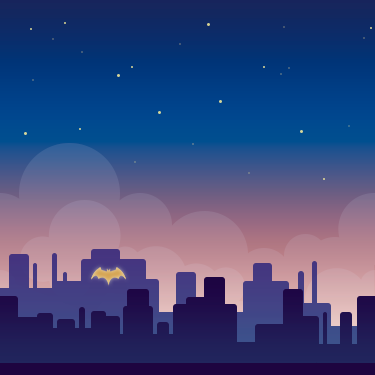
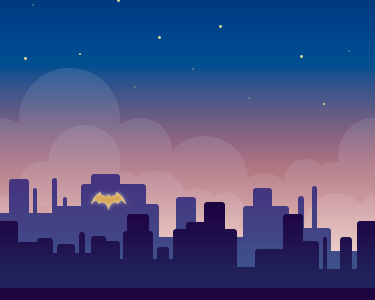
designing

diff --git a/tasks/batman/batman-flight-view.js b/tasks/batman/batman-flight-view.js
@@ -1,4 +1,4 @@
-import {HILL_HEIGHT} from './consts'
+import {BATMAN_SKIP_H, BATMAN_SKIP_W, HILL_HEIGHT} from './consts'
 
 export class BatmanFlightView {
 
@@ -14,19 +14,27 @@ export class BatmanFlightView {
 
         this.fly2 = this.kioapi.getResource('fly2');
         this.fly2w = this.fly2.width;
-        this.fly2h = this.fly2.height / 3;
+        this.fly2h = this.fly2.height / 4;
+
+        this.ctx = this.canvas.getContext('2d');
+        this.sky_pattern = this.ctx.createPattern(this.kioapi.getResource('bg'), 'repeat-x');
+        let grass_img = this.kioapi.getResource('ground');
+        this.ground_pattern = this.ctx.createPattern(grass_img, 'repeat');
+        this.ground_height = grass_img.height;
+        this.roof_img = this.kioapi.getResource('roof');
 
         $(window).on('resize', () => this.resize());
     }
 
-    redraw(path, time) {
+    redraw(path, time, pose_standing /*boolean*/) {
         this.last_redraw_path = path;
         this.last_redraw_time = time;
+        this.last_redraw_pose_standing = pose_standing;
 
         let pos = path.indexByTime(time);
         this.position_camera(path.x(pos), path.y(pos));
 
-        let ctx = this.canvas.getContext('2d');
+        let ctx = this.ctx;
 
         ctx.clearRect(0, 0, this.canvas.width, this.canvas.height);
 
@@ -35,30 +43,48 @@ export class BatmanFlightView {
         this.drawPath(ctx, path);
         this.drawActions(ctx, path);
 
+        let pose = pose_standing ? 4 : path.pose(pos);
         this.drawBatman(ctx, this.local2canvas({
             x: path.x(pos),
             y: path.y(pos)
-        }), path.theta(pos), path.pose(pos));
+        }), path.theta(pos), pose);
     }
 
     drawSky(ctx) {
-        ctx.fillStyle = skyGradient(ctx, 0, 0, 0, this.canvas.height);
-        ctx.fillRect(0, 0, this.canvas.width, this.canvas.height);
+        ctx.fillStyle = this.sky_pattern;
+        let dx = Math.round(this.x_left / this.pixel_size);
+        ctx.save();
+        ctx.translate(-dx, 0);
+        ctx.fillRect(dx, 0, this.canvas.width, this.canvas.height);
+        ctx.restore();
     }
 
     drawGround(ctx) {
-        ctx.fillStyle = ctx.createPattern(this.kioapi.getResource('grass'), 'repeat');
-        let {x: zero_x, y: zero_y} = this.local2canvas({x: 0, y: 0});
+        ctx.fillStyle = this.ground_pattern;
+        let {x: zero_x, y: zero_y} = this.local2canvas({x: 0, y: 0}, true);
         let hill_height = this.local_length2canvas(HILL_HEIGHT);
         let a_lot = this.local_length2canvas(1000);
-        ctx.fillRect(zero_x - a_lot, zero_y, a_lot, a_lot);
-        ctx.fillRect(zero_x, zero_y + hill_height, a_lot, a_lot);
+
+        ctx.drawImage(this.roof_img, zero_x - BATMAN_SKIP_H, zero_y - BATMAN_SKIP_W);
+
+        let dx = Math.round(this.x_left / this.pixel_size);
+        ctx.save();
+        ctx.translate(-dx, 0);
+        ctx.fillRect(dx + zero_x - a_lot, zero_y + hill_height, 2 * a_lot, a_lot);
+
+        ctx.restore();
     }
 
     drawBatman(ctx, {x, y}, theta, pose) {
         ctx.save();
-        ctx.translate(x, y);
-        ctx.rotate(-theta);
+
+        if (pose == 4) {
+            ctx.translate(Math.round(x), Math.round(y) - this.fly2w / 2 + 2);
+            ctx.rotate(-Math.PI / 2);
+        } else {
+            ctx.translate(x, y);
+            ctx.rotate(-theta);
+        }
 
         ctx.drawImage(
             this.fly2,
@@ -113,10 +139,9 @@ export class BatmanFlightView {
     }
 
     resize() {
-        let w = $(this.canvas.parentNode).width();
-        this.canvas.width = w;
+        this.canvas.width = $(this.canvas.parentNode).width();
         if (this.last_redraw_path)
-            this.redraw(this.last_redraw_path, this.last_redraw_time);
+            this.redraw(this.last_redraw_path, this.last_redraw_time, this.last_redraw_pose_standing);
     }
 
     canvas2local({x, y}) {
@@ -128,16 +153,18 @@ export class BatmanFlightView {
 
     position_camera(local_batman_x, local_batman_y) {
         let w = this.canvas.width * this.pixel_size;
-        let h = this.canvas.height * this.pixel_size;
+        let h = (this.canvas.height - this.ground_height) * this.pixel_size;
         let x_left = -w / 2 + local_batman_x;
-        let y_top = h / 2/* + local_batman_y*/;
+        let y_top = h / 2 /*- 32 * this.pixel_size*/; //grass size/* + local_batman_y*/
 
-        let min_g = 10 * this.pixel_size;
-        if (x_left < -min_g)
-            x_left = -min_g;
+        let min_gh = BATMAN_SKIP_H * this.pixel_size; //this.roof_img.width * this.pixel_size;
+        if (x_left < -min_gh)
+            x_left = -min_gh;
 
-        if ((y_top + HILL_HEIGHT + min_g) / this.pixel_size < this.canvas.height)
-            y_top = this.canvas.height * this.pixel_size - HILL_HEIGHT - min_g;
+        let min_gw = this.ground_height * this.pixel_size;
+
+        //if (y_top + HILL_HEIGHT + min_gw < this.canvas.height * this.pixel_size) //if we allow to go up
+        y_top = this.canvas.height * this.pixel_size - HILL_HEIGHT - min_gw;
 
         this.x_left = x_left;
         this.y_top = y_top;

diff --git a/tasks/batman/batman.js b/tasks/batman/batman.js
@@ -5,7 +5,7 @@ import {Path} from './path1'
 import {BatmanAction} from './batman_action'
 import {InitialValuesInput, IntermediateValuesInput} from './values_input'
 import {ListOfElements} from './list_of_elements'
-import {get_pose} from './consts'
+import {get_pose, PIXEL_SIZE} from './consts'
 
 export class Batman {
 
@@ -29,7 +29,8 @@ export class Batman {
         return [
             {id: "fly1", src: "batman-resources/fly1.png"},
             {id: "fly2", src: "batman-resources/fly2.png"},
-            {id: "grass", src: "batman-resources/grass.jpg"},
+            {id: "ground", src: "batman-resources/ground.png"},
+            {id: "roof", src: "batman-resources/roof.png"},
             {id: "bg", src: "batman-resources/bg.png"}
         ];
     }
@@ -104,23 +105,37 @@ export class Batman {
 
     initInterface(domNode) {
         this.animation_paused = true;
+        this.time = 0;
 
         this.go = () => {
+            this.last_raf_id = null;
+
             let newTime = new Date().getTime();
-            this.time += (newTime - this.prevTime) / 1000;
+
+            if (!this.animation_just_started) {
+                let delta_time = newTime - this.prevTime;
+
+                if (delta_time < 0.05) { //20fps
+                    this.last_raf_id = requestAnimationFrame(this.go);
+                    return;
+                }
+
+                this.time += delta_time / 1000;
+
+                this.time = Math.min(this.current_path.efficient_max_time, this.time);
+                if (this.time == this.current_path.efficient_max_time)
+                    this.setAnimationPause(true);
+            }
+            this.animation_just_started = false;
             this.prevTime = newTime;
 
-            this.time = Math.min(this.current_path.efficient_max_time, this.time);
-            if (this.time == this.current_path.efficient_max_time)
-                this.setAnimationPause(true);
-
-            this.batman_view.redraw(this.current_path, this.time);
+            this.batman_view.redraw(this.current_path, this.time, this.time == 0 || this.time == this.current_path.efficient_max_time);
 
             this.time_input.value_no_fire = this.time;
             this.$time_info.text(this.time.toFixed(1) + ' с');
 
             if (!this.animation_paused)
-                requestAnimationFrame(this.go);
+                this.last_raf_id = requestAnimationFrame(this.go); //TODO make this line a method
         };
 
         this.initCanvas(domNode);
@@ -153,7 +168,7 @@ export class Batman {
             canvas_height: 300,
             x_left: -10,
             y_top: 20,
-            pixel_size: 0.1 * 2
+            pixel_size: PIXEL_SIZE
         });
     }
 
@@ -203,10 +218,8 @@ export class Batman {
             return;
 
         this.animation_paused = value;
-        if (!this.animation_paused) {
-            this.prevTime = new Date().getTime();
-            requestAnimationFrame(this.go);
-        }
+        if (!this.animation_paused)
+            this.startAnimation();
         this.playPause.innerText = this.animation_paused ? '>' : '||';
     }
 
@@ -276,9 +289,14 @@ export class Batman {
     }
 
     moveToTime(time) {
-        this.prevTime = new Date().getTime();
         this.time = Math.min(time, this.current_path.landing_time);
-        requestAnimationFrame(this.go);
+        this.startAnimation();
+    }
+
+    startAnimation() {
+        this.animation_just_started = true;
+        if (!this.last_raf_id)
+            this.last_raf_id = requestAnimationFrame(this.go);
     }
 
     static button(title) {

diff --git a/webpack.config.js b/webpack.config.js
@@ -60,8 +60,7 @@ module.exports = function (env) {
             new ExtractTextPlugin("[name].css"),
             new CopyWebpackPlugin([
                 {from: './tasks/batman/batman.html'},
-                {from: './tasks/batman/*.png', to: './batman-resources', flatten: true},
-                {from: './tasks/batman/*.jpg', to: './batman-resources', flatten: true}
+                {from: './tasks/batman/img/*', to: './batman-resources', flatten: true}
             ])
         ]
     };

diff --git a/tasks/batman/consts.js b/tasks/batman/consts.js
@@ -1,4 +1,7 @@
-export const HILL_HEIGHT = 25;
+export const HILL_HEIGHT = 31;
+export const PIXEL_SIZE = 0.2;
+export const BATMAN_SKIP_H = 14;
+export const BATMAN_SKIP_W = 1 / 0.2
 export const g = 9.81;
 
 export const poses = [
